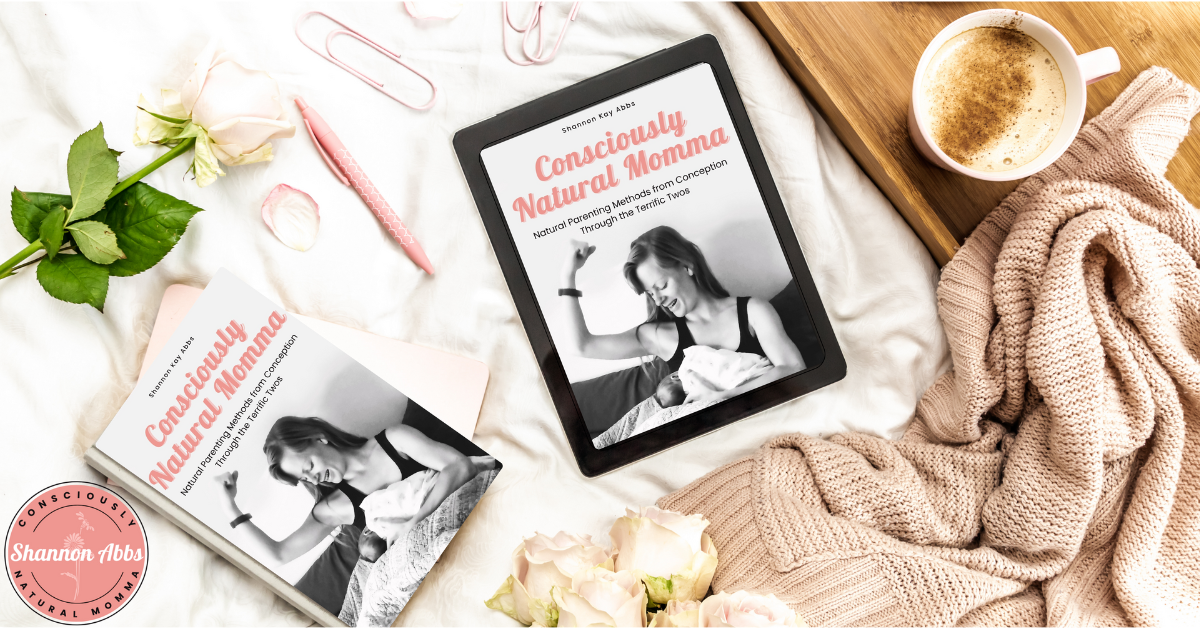
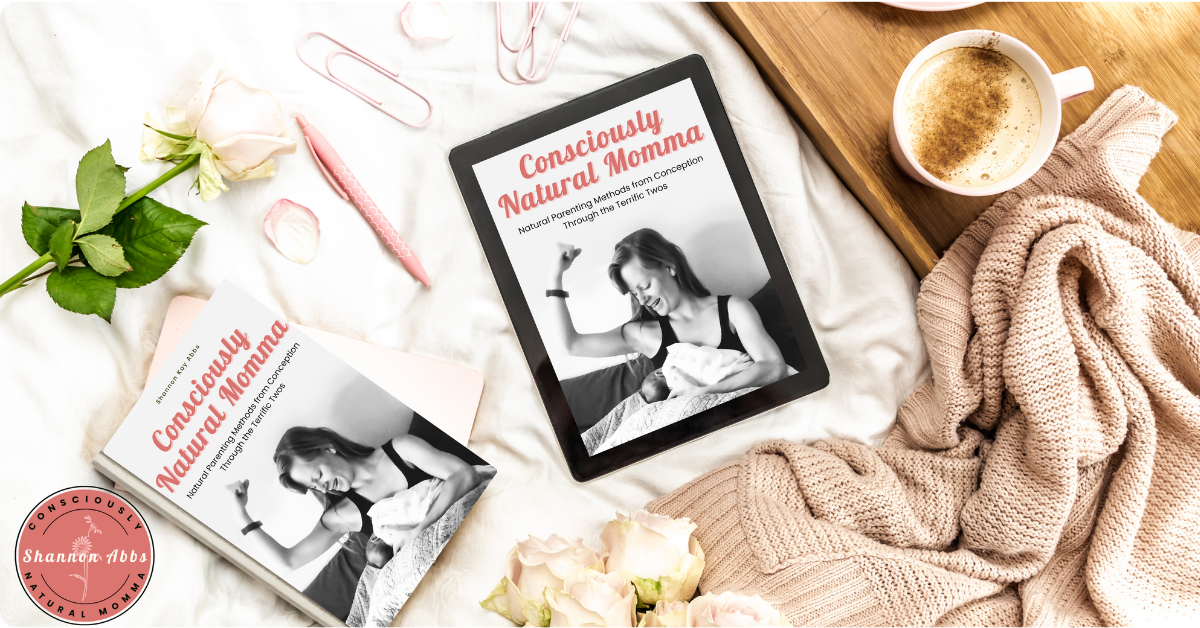
Changed colors and images across site

diff --git a/css/main.css b/css/main.css
@@ -110,7 +110,7 @@ ol {
 }
 
 a {
-  color: #ef9791;
+  color: #DA746F;
   text-decoration: none;
 }
 
@@ -137,7 +137,7 @@ h4 {
   font-weight: 600;
   font-style: normal;
   letter-spacing: 1px;
-  color: #ef9791;
+  color: #DA746F;
 }
 
 p {
@@ -189,7 +189,7 @@ address {
 .read-button {
   display: inline-block;
   border-radius: 4px;
-  background-color: #ef9791;
+  background-color: #DA746F;
   border: none;
   border-radius: 15px;
   color: #f7f7f7;
@@ -324,7 +324,7 @@ header figure {
   background-color:#000d00;
   font-size: 20px;
   font-family: inherit;
-
+  width: 100%;
 }
 
 .topnav a {
@@ -576,7 +576,7 @@ footer .copyright p{
   color:#000d00;
   line-height: 100%;
   font-family: 'lobster', cursive;  
-  text-shadow: 5px 5px 10px #ef9791;
+  text-shadow: 5px 5px 10px #DA746F;
   padding-bottom: 2%;
 
 }
@@ -675,7 +675,7 @@ footer .copyright p{
   margin: 20px 0;
   font-size: 1em;
   font-weight: 600;
-  color: #ef9791;
+  color: #DA746F;
   
 }
 
@@ -766,7 +766,7 @@ footer .copyright p{
   margin: 10px 0;
   font-size: 1em;
   font-weight: 600;
-  color: #ef9791;
+  color: #DA746F;
   
 }
 
@@ -803,7 +803,7 @@ font-size: 2.5em;
 }
 
 .quick-intro-parent h2, h3 {
-  color:#ef9791;
+  color:#DA746F;
   
 }
 
@@ -848,7 +848,7 @@ flex-flow: column wrap;
 }
 .sd-flex-2 h1 {
   padding-top: 5%;
-  color:#ef9791;
+  color:#DA746F;
   }
 
 .sd-flex-2 ul {
@@ -877,7 +877,7 @@ flex-flow: column wrap;
 }
 
 .fy-text h1, strong {
-  color:#ef9791;
+  color:#DA746F;
 }
 
 .footer-signup {
@@ -948,7 +948,7 @@ text-align: center;
 
 .date-category h4 {
   text-align: left;
-  color:#ef9791;
+  color:#DA746F;
   font-family: 'lobster', cursive;
   padding: 1%;
   margin:0%;
@@ -960,7 +960,7 @@ text-align: center;
 }
 
 .child-1 h2 {
-  color:#ef9791;
+  color:#DA746F;
   
   
 }
@@ -1439,7 +1439,7 @@ footer .copyright {
   color:#f7f7f7;
 }
 .sd-flex-2 ul li {
-  color:#ef9791;
+  color:#DA746F;
 
 }
 
@@ -1484,7 +1484,7 @@ footer .copyright {
  /*****----------- Blog Post & Category Template ----------********/
  .topnav {
   overflow: hidden;
-  background-color:#ef9791;
+  background-color:#DA746F;
   font-size: 20px;
   font-family: inherit;
   display:flex;
